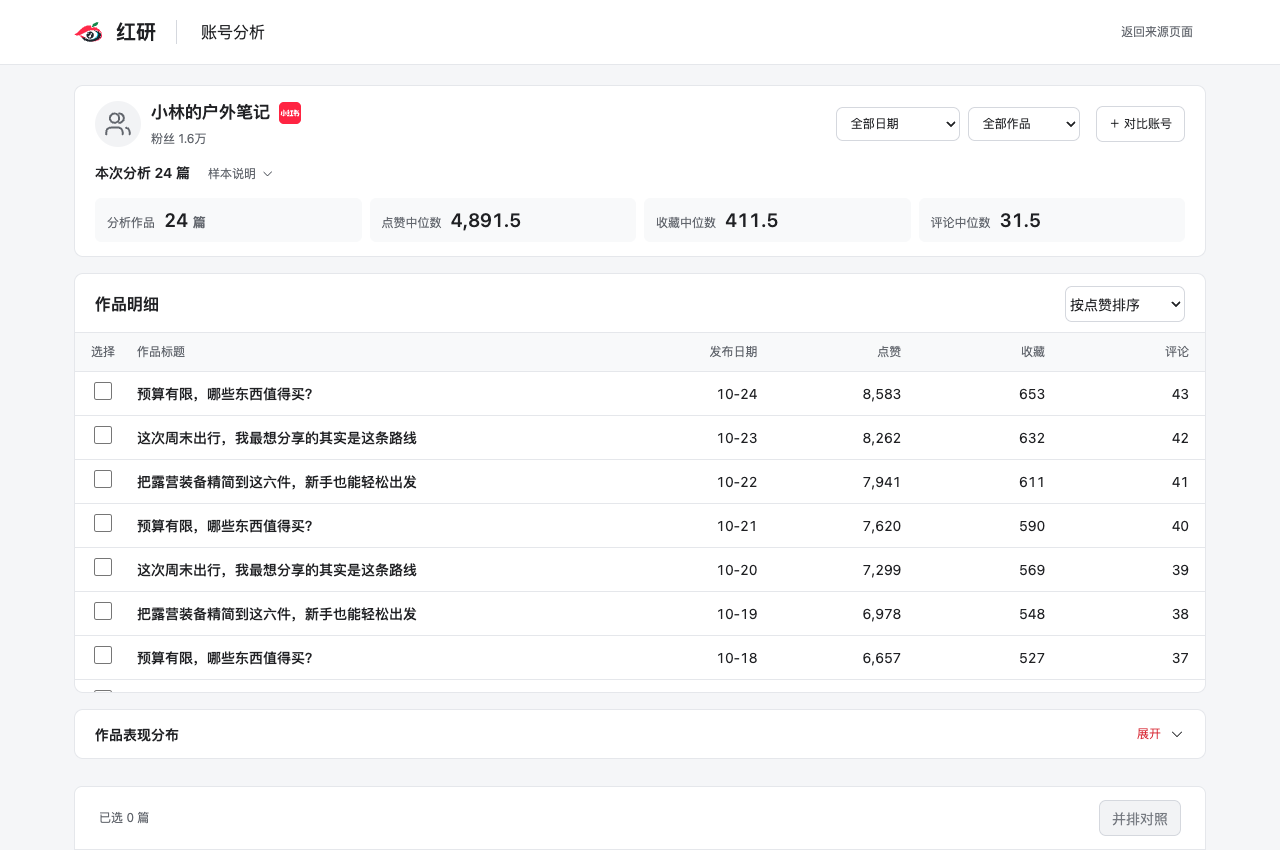
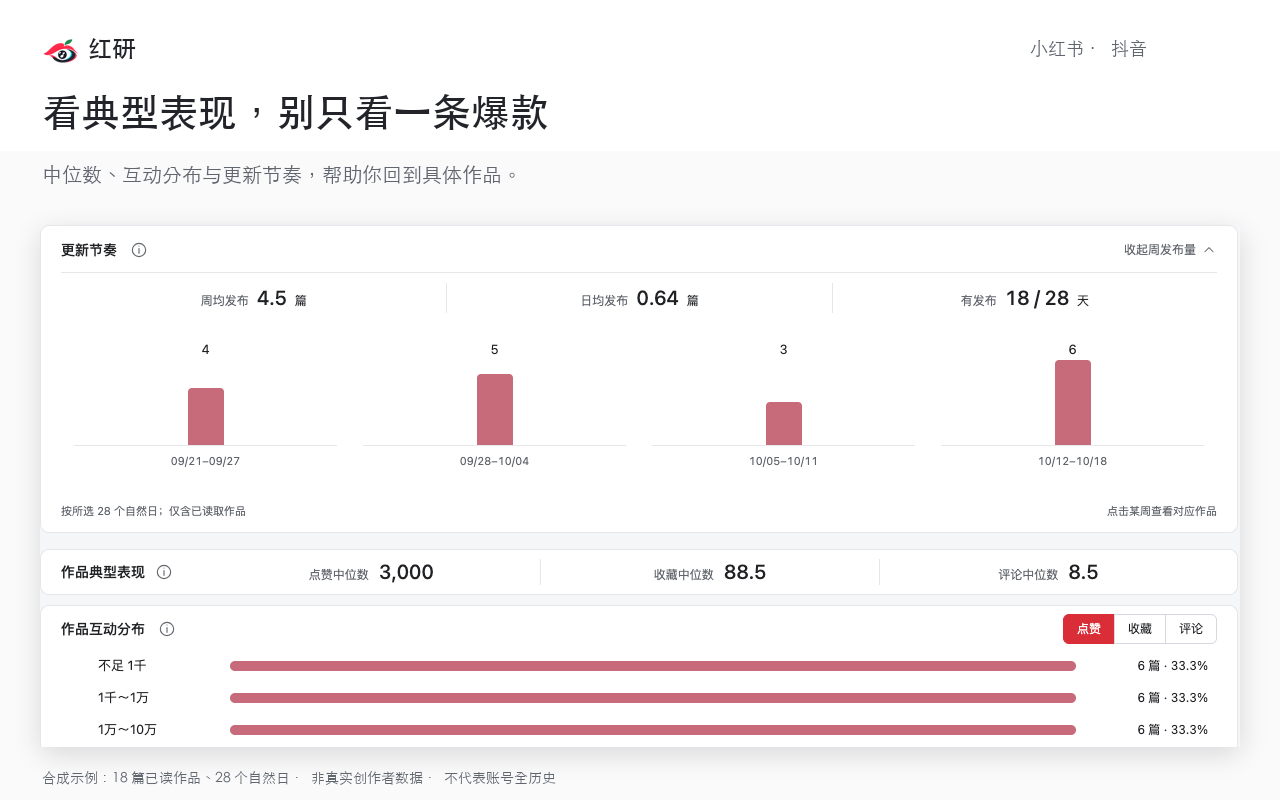
docs(release): 同步 26.10.29.6 说明与下载入口

diff --git a/docs/guide.md b/docs/guide.md
@@ -2,9 +2,11 @@
 
 [← 返回产品介绍](../README.md) · [下载与安装](downloads.md)
 
-> 本教程涵盖 `26.10.23.1` 开发版。当前公开包 `26.10.16.12` 不包含抖音适配、账号研究、内容解读与本地 Whisper；请先核对[版本范围](downloads.md)。
+> 本教程适用于公开版 `26.10.29.6`。小红书基础采集与保存免费；抖音、账号研究、作品对照、新 AI 解读和新本地转录需有效专业权益。已有专业用户可登录恢复权益，暂未开放购买。
 
 ## 1. 安装与准备
+
+小红书基础功能无需登录。使用专业功能时，从插件设置进入账号与套餐，通过 Google 或邮箱验证码登录；已有永久授权可通过「管理套餐 → 已有旧版永久授权码」激活。不要将 API Key、登录验证码或授权码发送到公开反馈中。
 
 按[安装说明](downloads.md)安装红研，固定到浏览器工具栏，并刷新已打开的平台页面。新版按小红书／抖音自动显示对应工作区。看到连接失效提示时，刷新页面后重新采集，无需清除存储。
 
@@ -16,7 +18,7 @@
 | 飞书 | 按首次连接引导导入模板，填写自己的 Base 链接与授权码，完成必要检查 | 插件显示连接就绪，可打开自己的资料库 |
 | Obsidian | 选择知识库目录并授权访问 | 插件显示已连接，保存后目录中出现 Markdown 和图片 |
 
-飞书模板包含笔记库、对标博主等结构；新 Base 的原生分析仪表盘仍需按引导另行配置。Obsidian 按博主与作品整理资料，保护已有人工备注。浏览器再次请求目录授权时，选择原目录。
+飞书模板包含笔记库、对标博主等结构；新 Base 的原生分析仪表盘仍需按引导另行配置。Obsidian 按博主与作品整理资料，普通保存会带入已有成功逐字稿；更新另存版本并保留上一版本链接，不覆盖已有文件。浏览器再次请求目录授权时，选择原目录。
 
 ## 2. 发现、筛选与保存作品
 
@@ -37,13 +39,13 @@
 
 **关键词**：在搜索页使用「关键词拓展」，完成后导出 CSV 或 HTML 词图。抖音使用平台原生搜索下拉联想，自动逐层拓展；运行时保持页面可见，避免操作原生搜索框，手动输入会停止任务并保留已取得结果。可主动停止；遇验证或平台限制时暂停，不连续重试。
 
-抖音 HTML 导图可离线打开；小红书现有 HTML 词图需要联网加载可视化组件。联想词用于整理方向，不代表搜索量或需求强度。小红书搜索赛道通过独立入口导出，与关键词拓展分别使用。
+抖音 HTML 导图可离线打开；小红书 HTML 词图也使用包内可视化组件，可离线打开。联想词用于整理方向，不代表搜索量或需求强度。小红书搜索赛道通过独立入口导出，与关键词拓展分别使用。
 
 **小红书评论**：在笔记详情采集与导出；已保存笔记可通过相应保存目标的评论补采入口继续处理。飞书在「补采评论」视图勾选，再从插件点击「补采飞书勾选项」；Obsidian／本地从保存结果进入「选择笔记补采评论」。仅在飞书勾选不会自动开始。
 
 **抖音评论**：先在平台展开当前作品的评论，再点击「导出已加载评论」。仅导出本次页面已取得的样本。
 
-## 4. 分析账号与对照作品（新版）
+## 4. 分析账号与对照作品（专业功能）
 
 1. 在博主主页加载所需作品，点击「分析账号」。分析只使用当前账号的已加载样本，可按日期和类型查看表现。
 2. 要对比账号，在同一浏览器窗口分别进入两个同平台博主主页并点击分析，再从研究窗口选择「对比账号」。
@@ -53,30 +55,30 @@
 
 ## 5. 获取视频逐字稿
 
-从视频详情点击「获取逐字稿」，或在保存资料时明确开启逐字稿。新版提供两种方式：
+从视频详情点击「获取逐字稿」，或在内容研读下载时明确开启逐字稿。逐字稿与 AI 解读分别选择，默认关闭；已有成功结果优先复用。提供两种方式：
 
 | 方式 | 配置 | 费用与限制 |
 | --- | --- | --- |
-| 本地 Whisper（新版） | 「设置 → 视频转录」下载本地助手，复制 AI 安装指引交给能执行本机命令的 Agent，安装并准备模型后回插件「检测连接」 | 使用本机算力；无需云端转录 Key，不自动改用云端。Apple Silicon Mac 已有实机验证，Windows／Linux／Intel Mac 仍需实机验证 |
+| 本地 Whisper（新任务需专业权益） | 「设置 → 视频转录」下载本地助手，复制 AI 安装指引交给能执行本机命令的 Agent，安装并准备模型后回插件「检测连接」 | 需有效专业权益，使用本机算力；无需云端转录 Key，不自动改用云端。Apple Silicon Mac 已有实机验证，Windows／Linux／Intel Mac 仍需实机验证 |
 | 豆包云端 | 在扩展安全设置页配置自己的服务 Key | 按服务商计费；新增转录先确认，已提交任务恢复时只查原任务 |
 
 抖音详情可在原浮窗的「转录方式」中选择方式、检测本地助手并查看安装指引；云端 Key 在扩展安全设置页填写。
 
 完成后选择 TXT、Markdown 或 SRT 下载，可多选；SRT 需要有效时间轴。已有逐字稿直接复用，无可用媒体、音轨或识别失败时不会制造文稿。保存资料时无法转录的视频会保留基础资料，按结果提示处理。
 
-## 6. 解读单篇内容（新版）
+## 6. 解读单篇内容（专业功能）
 
 1. 从红研设置进入「AI 内容解读」，填写自己的 DeepSeek API Key，保存并检测连接。
 2. 打开小红书或抖音作品详情，点击「内容解读」。
 3. 在原浮窗查看「核心内容、用户价值、表达方式」，查看「本次材料」，按需复制或下载 Markdown。
 
-默认 Flash；Pro 仅分析文字。所用正文、逐字稿、图片／视频关键帧和已加载评论样本会按模型能力发送给 DeepSeek。解读不会主动抓全评论；缺逐字稿时沿用转录设置，新增云端转录另需确认。
+默认 Flash；Pro 仅分析文字。所用正文、逐字稿、图片／视频关键帧和已加载评论样本会按模型能力发送给 DeepSeek。解读不会主动抓全评论，也不会自动启动转录。视频缺逐字稿时会提示材料不足；需要文稿时另行选择转录，新增云端转录需确认。
 
 已完成结果按作品与模型保留最新成功解读，重新打开直接复用。「重新解读」会再次请求模型并可能计费；失败保留上次成功结果。解读不会自动写入飞书或 Obsidian。AI 输出供研究参考，请结合原文判断。
 
 ## 常见问题
 
-**找不到新版按钮？** 核对扩展管理页的版本。旧公开包没有新版功能；重载或更新扩展后还需刷新平台页面。
+**找不到新版按钮？** 核对扩展管理页的版本。请更新至 26.10.29.6 后刷新平台页面；专业功能还需登录并具备有效权益。
 
 **下载是不是已经成功？** 以浏览器下载完成及实际文件为准；仅创建任务、出现保存框或显示处理中不代表完成。
 

diff --git a/docs/downloads.md b/docs/downloads.md
@@ -2,44 +2,44 @@
 
 [← 返回产品介绍](../README.md) · [使用教程](guide.md)
 
-## 先确认版本
-
-| 版本 | 当前状态 | 功能范围 |
-| --- | --- | --- |
-| **26.10.16.12** | 已公开发布，提供 Google 商店签名 CRX | 小红书资料采集、关键词、评论、视频与云端逐字稿、飞书／Obsidian 保存等既有功能 |
-| **26.10.23.1** | 本地开发版，尚未公开发布 | 新增抖音适配、账号分析与作品对照、单篇内容解读、本地 Whisper 及新版界面 |
-
-README 与教程介绍新版功能，当前公开包不包含上述新增能力。新版正式发布后会在同一 [Releases 页面](https://github.com/zhangxun-ai/Hongyan-extension/releases)更新；获取状态可[联系作者](https://extensions.zhangxun.org/hongyan/#wechat)确认。
+当前版本 **26.10.29.6**，已在 Chrome 应用商店公开发布。官网与 GitHub 提供同一份 Google 签名 CRX，扩展 ID：`pjdbnlfpofkgcglogmdgplamgabooceo`。
 
 ## 下载入口
 
-- **[GitHub 版本发布页](https://github.com/zhangxun-ai/Hongyan-extension/releases)**：查看更新说明及附件。
-- **[下载 26.10.16.12 CRX](https://github.com/zhangxun-ai/Hongyan-extension/releases/download/v26.10.16.12/hongyan-26.10.16.12.crx)**：当前已公开的安装包。
-- **[Chrome 应用商店](https://chromewebstore.google.com/detail/pjdbnlfpofkgcglogmdgplamgabooceo)**：安装前核对页面显示版本，以商店实际可用状态为准。
+- **[Chrome 应用商店](https://chromewebstore.google.com/detail/pjdbnlfpofkgcglogmdgplamgabooceo)**：推荐安装方式，浏览器按商店规则更新。
+- **[官网下载 26.10.29.6 CRX](https://extensions.zhangxun.org/downloads/hongyan-26.10.29.6.crx)**：直接下载安装包。
+- **[GitHub 下载 26.10.29.6 CRX](https://github.com/zhangxun-ai/Hongyan-extension/releases/download/v26.10.29.6/hongyan-26.10.29.6.crx)**：相同安装包的另一下载入口。
+- **[26.10.29.6 更新说明与校验文件](https://github.com/zhangxun-ai/Hongyan-extension/releases/tag/v26.10.29.6)**。
 
-公开版仅提供 CRX，不提供解压版 ZIP。Google 商店签名 CRX 的扩展 ID 为 `pjdbnlfpofkgcglogmdgplamgabooceo`。当前版本已在 Dia 完成商店安装与基本界面检查；其他浏览器及离线安装是否允许，以浏览器实际提示为准，不保证所有 Chromium 浏览器兼容。
+文件：`hongyan-26.10.29.6.crx`，大小：4,696,331 字节。
 
-<details>
-<summary>26.10.16.12 CRX 文件校验信息</summary>
-
-文件：`hongyan-26.10.16.12.crx`，大小：4,131,681 字节。
-
[1 lines of base64/hex data omitted]
-
-</details>
[1 lines of base64/hex data omitted]
 
 ## 安装与更新
 
-1. 优先使用浏览器允许的应用商店安装方式；页面可用时按提示添加红研。
-2. 使用 CRX 时，打开浏览器的扩展程序管理页，将文件拖入并按提示添加，无需解压。浏览器禁止离线安装时改用商店，不关闭安全保护。
-3. 启用后固定红研到工具栏，刷新已打开的平台页面，再核对版本与对应功能。
+1. 优先从 Chrome 应用商店按提示添加红研。
+2. 使用 CRX 时，打开浏览器的扩展管理页，将文件拖入空白处并按提示确认，无需解压。浏览器禁止离线安装时改用商店，不关闭安全保护。
+3. 启用并固定到工具栏，刷新已打开的小红书／抖音页面，确认版本为 `26.10.29.6`。
 
-更新时保留原扩展和本机资料，不清除存储。同一商店 ID 的更新由浏览器处理；不同 ID 的安装不保证自动继承配置。不要同时启用两份红研。开发版与商店版不能仅凭名称判断为同一安装。
+本版本 Google 签名包已在 macOS Chrome 完成同 ID 更新和正常重启，账号、保存条件与原资料库绑定保留；本地助手下载已完成回读。其他系统及浏览器仍以实际安装提示为准。
 
-## 免费使用与源码
+更新时保留原扩展与本机资料，不清除存储，不同时启用两份红研。不同扩展 ID 不保证自动继承配置。升级新增权限时按浏览器提示重新确认。
 
-插件免费，无需激活，无试用期限。云端转录与内容解读需自行配置第三方服务并承担服务费用；新版本地 Whisper 不产生云端转录接口费用。
+## 历史版本
 
-本公开仓库不包含扩展开发源码。GitHub 自动生成的 **Source code** 归档只有介绍仓库的文档和图片，不是插件安装包。
+历史版本按独立标签保存在 [全部 Releases](https://github.com/zhangxun-ai/Hongyan-extension/releases)，发布新版不会替换旧 Release 或附件。
 
-商业源码须[联系作者获得授权](https://extensions.zhangxun.org/hongyan/#wechat)，加入作者的 GitHub 私有仓库后获取；免费使用插件不包含商业源码授权。
+| 版本 | 功能范围 | 下载 |
+| --- | --- | --- |
+| **26.10.29.6** | 小红书与抖音、账号研究／作品对照、内容研读、AI 解读、本地／云端转录、账号与专业权益 | [当前 Release](https://github.com/zhangxun-ai/Hongyan-extension/releases/tag/v26.10.29.6) |
+| **26.10.16.12** | 原免费小红书功能，不含新版专业入口 | [历史 CRX](https://github.com/zhangxun-ai/Hongyan-extension/releases/download/v26.10.16.12/hongyan-26.10.16.12.crx) |
+
+历史版本用于留存和查阅，不建议将新版直接降级：旧版不能安全处理新版资料结构，可能影响本地资料。需要恢复时先导出数据并联系支持。
+
+## 免费与专业权益
+
+小红书基础采集、筛选、下载及本地／飞书／Obsidian 保存继续免费，无需登录。抖音工作区、账号研究与作品对照、新 AI 解读和新本地转录任务需有效专业权益。通过 Google 或邮箱验证码登录可恢复已关联权益；历史永久授权继续有效。
+
+专业版月度 ¥9.9、年度 ¥39.9、永久 ¥69.9，三档功能相同。月度／年度到期手动续费，不自动扣款；当前暂未开放购买。第三方 AI／云转录需自备 API Key 并另付服务商费用，本地转录需助手和模型。已有成功结果可继续读取及导出。
+
+公开附件仅提供已验证 CRX 与校验和，不提供开发源码 ZIP。GitHub 自动生成的 **Source code** 归档只有本介绍仓库的文档和图片，不是插件安装包。商业源码须[联系作者获得授权](https://extensions.zhangxun.org/hongyan/#wechat)，通过私有仓库交付。

diff --git a/README.md b/README.md
@@ -17,7 +17,7 @@
 
 红研是一款桌面浏览器插件，适合寻找选题、研究对标账号和积累创作资料的内容创作者。在平台页面上筛选与选择作品，按需分析账号、获取逐字稿或解读内容，再导出或保存到自己的资料库。
 
-> **版本说明**：下文介绍新版 `26.10.23.1` 的功能。抖音适配、账号研究、内容解读与本地 Whisper 已在开发版实现，尚未公开发布；当前 [公开下载版本](docs/downloads.md) 为 `26.10.16.12`，不包含这些新功能。插件免费，源码另行授权。
+> **当前版本：26.10.29.6**，已在 Chrome 应用商店发布。[官网下载 CRX](https://extensions.zhangxun.org/downloads/hongyan-26.10.29.6.crx) · [GitHub 下载 CRX](https://github.com/zhangxun-ai/Hongyan-extension/releases/download/v26.10.29.6/hongyan-26.10.29.6.crx) · [历史版本](https://github.com/zhangxun-ai/Hongyan-extension/releases)。小红书基础采集与保存免费；抖音工作区、账号研究与作品对照、新 AI 解读和新本地转录任务需有效专业权益，暂未开放购买。
 
 ## 主要功能
 
@@ -35,21 +35,23 @@
 ## 界面预览
 
 <details>
-<summary>查看账号分析、作品对照、抖音工作区与内容解读</summary>
+<summary>查看采集、账号研究、作品对照、转录与保存位置</summary>
 
-下图使用当前开发版的实际界面与演示数据，不代表真实账号、采集结果或 AI 分析结论。点击可查看大图。
+下图使用产品实际界面的组合图与合成示例数据，不代表真实账号、采集结果或 AI 分析结论。点击可查看大图。
 
 | 账号分析 | 作品并排对照 |
 | :---: | :---: |
 | [![账号分析界面，演示数据](assets/account-analysis.png)](assets/account-analysis.png) | [![作品并排对照界面，演示数据](assets/work-comparison.png)](assets/work-comparison.png) |
-| 抖音筛选与采集 | 单篇内容解读 |
-| <a href="assets/douyin-workspace.png"><img src="assets/douyin-workspace.png" alt="抖音筛选与采集界面，演示数据" width="260"></a> | <a href="assets/content-interpretation.png"><img src="assets/content-interpretation.png" alt="单篇内容解读界面，演示数据" width="340"></a> |
+| 采集与保存条件 | 视频转录配置 |
+| [![采集与保存条件](assets/collection-26.10.29.6.png)](assets/collection-26.10.29.6.png) | [![视频转录配置](assets/transcripts-26.10.29.6.png)](assets/transcripts-26.10.29.6.png) |
+
+[![保存到本地、飞书或 Obsidian](assets/destinations-26.10.29.6.png)](assets/destinations-26.10.29.6.png)
 
 </details>
 
 ## 平台与功能范围
 
-新版支持小红书、抖音的首页、搜索页、博主主页与作品详情，按当前网站显示对应工作区。
+26.10.29.6 支持小红书、抖音的首页、搜索页、博主主页与作品详情，按当前网站显示对应工作区。
 
 | 功能 | 小红书 | 抖音 |
 | --- | --- | --- |
@@ -79,8 +81,9 @@
 
 ## 费用与数据
 
-- **插件免费**：无需激活，无试用期限。免费使用不包含商业源码授权。
-- **本地 Whisper**：需安装独立助手和模型，使用本机算力，不产生云端转录接口费用；不会自动切换到付费云端。Apple Silicon Mac 已有实机验证，其他桌面系统仍需分别验证。
+- **免费与专业权益**：小红书基础采集、筛选、下载及本地／飞书／Obsidian 保存无需登录，继续免费。抖音工作区、账号研究与作品对照、新 AI 解读及新本地转录任务需专业权益。月度 ¥9.9、年度 ¥39.9、永久 ¥69.9，功能相同；月度／年度到期手动续费，不自动扣款，当前暂未开放购买。已有永久授权继续有效，成功结果可继续读和导出。
+- **账号登录**：通过 Google 或邮箱验证码登录并恢复专业权益。Google 仅请求基础身份权限，不读取 Gmail 或 Google Drive；采集资料与 API Key 不随账号上传。
+- **本地 Whisper**：新任务需有效专业权益、独立助手和模型，使用本机算力，不产生云端转录接口费用；不会自动切换到付费云端。Apple Silicon Mac 已有实机验证，其他桌面系统仍需分别验证。
 - **云端转录与内容解读**：自行配置豆包／DeepSeek 服务，费用由对应服务商收取。新增云端转录需确认；内容解读仅在主动点击后调用，重新解读会再次请求模型。
 - **数据去向**：选择云端转录时，媒体材料提交给对应转录服务；内容解读会将所用正文、逐字稿、图片／关键帧及评论样本发送给 DeepSeek，具体取决于模型与可用材料。Pro 仅分析文字。
 - **密钥与结果**：服务密钥保存在本机扩展中，不写入网页或导出。已完成解读按作品与模型保留最新成功结果，重开直接复用；结果需主动复制或下载，不自动写入飞书／Obsidian。
@@ -90,7 +93,7 @@
 - 仅处理页面可访问、已取得的材料；评论不保证全量，关键词联想不等于搜索量，媒体下载与转录取决于可用地址、音轨和权限。
 - 作者自测暂未遇到封控，但不保证零风险。担心账号安全可先用小号测试；出现平台提醒或异常时暂停并按平台提示处理。
 - [使用教程](docs/guide.md) · [下载与更新](docs/downloads.md) · [提交问题](https://github.com/zhangxun-ai/Hongyan-extension/issues/new/choose)
-- [官网与联系作者](https://extensions.zhangxun.org/hongyan/) · [隐私说明](https://extensions.zhangxun.org/hongyan/privacy/) · [support@zhangxun.org](mailto:support@zhangxun.org)
+- [官网与联系作者](https://extensions.zhangxun.org/hongyan/) · [隐私说明](https://license.zhangxun.org/privacy/) · [support@zhangxun.org](mailto:support@zhangxun.org)
 
 反馈时附插件版本、浏览器版本和复现步骤，遮挡个人信息，勿提交 API Key、授权码或 Cookie。源码须[联系作者获得授权](https://extensions.zhangxun.org/hongyan/#wechat)，加入作者的 GitHub 私有仓库后获取。
 

diff --git a/AGENTS.md b/AGENTS.md
@@ -3,10 +3,11 @@
 本仓库维护产品介绍、教程、公开品牌图、问题反馈和 Releases 安装包；源码开发在独立私有仓库进行。入口为 README.md，使用说明见 docs/guide.md，下载说明见 docs/downloads.md。
 
 - 不导入私有仓库的提交历史、扩展源码、后台配置、凭据、个人邮箱或实机验收资料。
-- 公共联系方式使用 support@zhangxun.org；当前插件免费、无需激活，无试用倒计时；云端转录与内容解读需用户自配并承担服务费用；本地 Whisper 需安装助手和模型，不产生云端转录接口费用。商业源码通过私有仓库授权，费用和权利范围未约定时只提供联系作者入口。不要承诺未确认的更新权益或浏览器兼容性。
+- 公共联系方式使用 support@zhangxun.org；当前26.10.29.6的小红书基础功能免费无需登录；抖音工作区、账号研究/作品对照、新AI解读及新本地转录需专业权益，暂未开放购买，已有专业用户可登录恢复，历史永久授权继续有效；云端转录与内容解读需用户自配并承担服务费用；本地 Whisper 需安装助手和模型，不产生云端转录接口费用。商业源码通过私有仓库授权，费用和权利范围未约定时只提供联系作者入口。不要承诺未确认的更新权益或浏览器兼容性。
 - assets/ 使用已获准公开的品牌图与功能示意图。当前 Logo 维护源为私有源码仓库 assets/hongyan-icon.png，公开副本为 assets/hongyan-logo.png；预览图使用当前界面和演示数据，必须如实标注，不冒充真实账号、采集结果或 AI 结论。
 - 后续安装包仅上传到 Releases，不提交到 Git。使用 v<实际插件版本> 标签，说明参考 .github/RELEASE_TEMPLATE.md；替换占位内容，核对版本、文件摘要、安装方式与实际验证范围。
-- 公开版仅发布经验证的 CRX 安装包与校验和，禁止公开上传 ZIP、开发源码、构建工具或后台。源码必须获得授权并加入作者的 GitHub 私有仓库后获取。2026-10-23 回读公开 Release：26.10.16.12 已发布，仅附 Google 商店签名 CRX；26.10.23.1 为尚未公开发布的开发版，包含抖音等新功能。介绍新版时明确版本范围，不把旧公开包写成支持全部新功能，不将内部 ZIP 或源码公开。商店实时状态需另行核对。
+- 2026-10-30 已获准手动发布26.10.29.6并同步官网/GitHub，当前正式版为26.10.29.6；网站和Releases提供同一Google签名CRX，版本历史在Releases保留，不删除或替换旧版附件。
+- 公开版仅发布经验证的 CRX 安装包与校验和，禁止公开上传 ZIP、开发源码、构建工具或后台。源码必须获得授权并加入作者的 GitHub 私有仓库后获取。以下为历史状态，不代表当前版本。2026-10-23 回读公开 Release：26.10.16.12 已发布，仅附 Google 商店签名 CRX；26.10.23.1 为尚未公开发布的开发版，包含抖音等新功能。介绍新版时明确版本范围，不把旧公开包写成支持全部新功能，不将内部 ZIP 或源码公开。商店实时状态需另行核对。
 - 发布属于外部写入，按用户当次授权执行。当前用户已要求同步免费版官网、商店与 GitHub；后续无关版本仍按当次授权执行。
 - 文档修改用 git diff --check 检查空白，核对 Markdown 的本地链接与图片存在；Issue 表单按 GitHub 官方 schema 检查并核对线上表单。此仓库没有扩展构建或运行测试。
 

diff --git a/.github/RELEASE_TEMPLATE.md b/.github/RELEASE_TEMPLATE.md
@@ -10,7 +10,7 @@
 - 安装包：填写下方 Assets 中实际上传的文件名。
 - 安装或更新：填写用户可执行的步骤；完成后刷新对应平台页面。
 
-插件免费使用。可选云端转录与内容解读需自行配置并承担服务费用。商业源码授权咨询见[官网](https://extensions.zhangxun.org/hongyan/#wechat)。
+小红书基础功能免费，专业功能需有效权益；销售状态以官网为准。可选云端转录与内容解读需自备 API Key 并承担服务费用。商业源码授权咨询见[官网](https://extensions.zhangxun.org/hongyan/#wechat)。
 
 公开附件只能包含已验证的 CRX 及其校验和，不得附加上传 ZIP、开发源码或构建资料。分别注明 CRX 与商店的实际发布状态。GitHub 自动生成的 Source code 归档只包含介绍仓库文档和图片。源码仅通过获授权的 GitHub 私有仓库成员权限交付。
 
